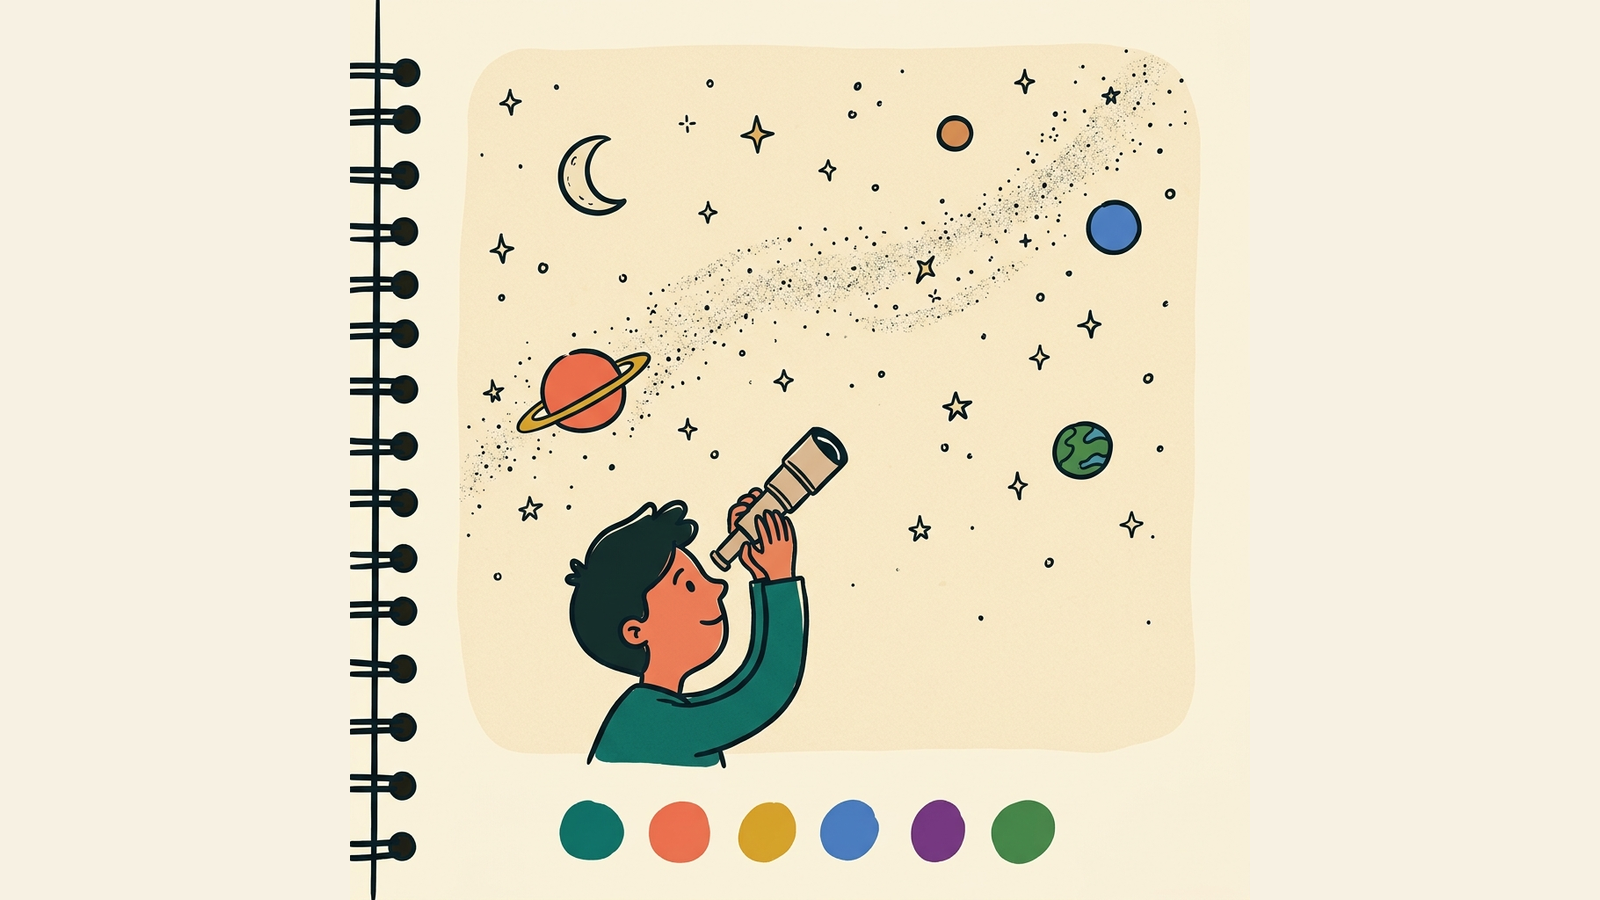
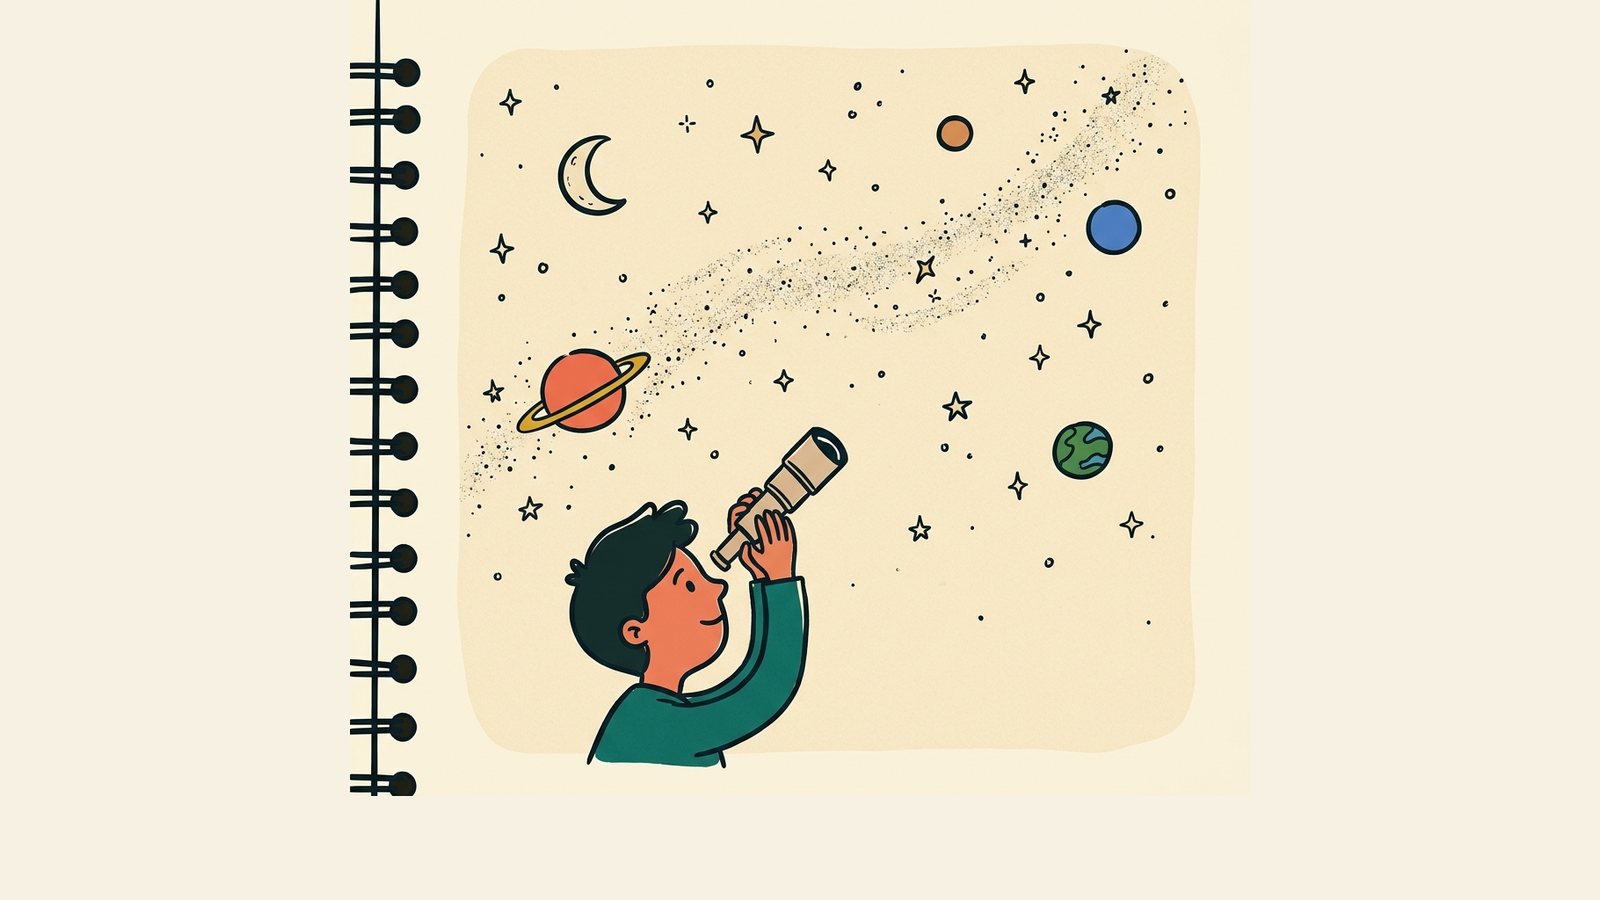
Wire topic images into pages; fix hero artifact
- kit.jsx: render CFG.heroImage as a framed hero banner on topic home
- Add hero + concept figures to observing-universe, cells-classification,
  solutions-mixtures
- observing-universe/img/hero.png: erase stray palette-swatch dots

Changed region(s): [[0.3438, 0.8711, 0.6562, 0.9644], [0.2188, 0.9022, 0.2812, 0.9956]]

diff --git a/observing-universe/content.jsx b/observing-universe/content.jsx
@@ -850,6 +850,7 @@ function Section3({ progress, setProgress }) {
         <p className="lead">Our place in the solar system explains almost everything we see in the sky.</p>
       </div>
 
+      <Figure src="img/earth-sun.png" caption="Earth orbits the Sun with its axis tilted — one half in daylight, the other in night." />
       <DotPoint id="1.3.1" title="Historical solar system models" progress={progress} setProgress={setProgress}>
         <p>For over 1,400 years, almost everyone believed Earth sat at the centre of the universe. This was the <Term def="The Earth-centred model of the solar system, developed by Ptolemy around 150 CE.">geocentric model</Term>, developed by the Greek philosopher Ptolemy. It matched everyday experience (the sky looks like it moves around a stationary Earth) and was supported by the Church. But it needed very complicated additions called <Term def="Small circular paths added to orbits in the geocentric model to explain why planets sometimes appear to move backwards in the sky.">epicycles</Term> to explain why planets occasionally appear to move backwards.</p>
         <p>In 1543, the Polish astronomer <Term def="The astronomer who proposed the first widely accepted Sun-centred model of the solar system in 1543.">Nicolaus Copernicus</Term> proposed the <Term def="The Sun-centred model of the solar system.">heliocentric model</Term>, placing the Sun at the centre. Galileo used a telescope in 1609 to find moons orbiting Jupiter (proving not everything circles Earth) and phases of Venus (only possible if Venus orbits the Sun). Johannes Kepler showed the orbits are ellipses, not circles. Isaac Newton then explained why: <Term def="The force of attraction between any two objects that have mass.">gravity</Term>.</p>
@@ -897,6 +898,7 @@ function Section4({ progress, setProgress }) {
         <p className="lead">Aboriginal and Torres Strait Islander peoples developed some of the world's oldest and most detailed astronomical knowledge systems.</p>
       </div>
 
+      <Figure src="img/sky-knowledge.png" caption="The Emu in the Sky — a dark-cloud constellation in the Milky Way, central to Aboriginal astronomy." />
       <DotPoint id="1.4.1" title="Moon phases and tides: two knowledge systems" progress={progress} setProgress={setProgress}>
         <p>Aboriginal and Torres Strait Islander peoples across Australia carefully observed the Moon's phases over tens of thousands of years and connected them to practical predictions about tides. The <Term def="An Aboriginal people of Arnhem Land, Northern Territory, with extensive astronomical and ecological knowledge.">Yolngu</Term> people of Arnhem Land describe the Moon filling with water as it waxes (grows) and emptying as it wanes (shrinks), producing a predictable tidal cycle. Coastal communities used this knowledge to plan fishing trips, shellfish gathering, and access to tidal rock platforms.</p>
         <p>Modern science explains the same patterns through the Moon's <Term def="The force of attraction between objects with mass. The Moon's gravity creates tidal bulges in Earth's oceans.">gravitational pull</Term> on Earth's oceans. The strongest tides (<Term def="The strongest tides, occurring at new Moon and full Moon when the Sun and Moon are aligned.">spring tides</Term>) occur at new Moon and full Moon. The weakest tides (<Term def="Relatively weak tides occurring at first and last quarter Moon when the Sun and Moon are at right angles.">neap tides</Term>) occur at quarter phases. Both knowledge systems reach the same practical result: the Moon's phase accurately predicts tidal strength.</p>
@@ -955,6 +957,7 @@ function Section5({ progress, setProgress }) {
         <p className="lead">The James Webb Space Telescope is the most powerful eye we have ever pointed at the cosmos. Find out what it can see and what it has already discovered.</p>
       </div>
 
+      <Figure src="img/jwst.png" caption="The James Webb Space Telescope and its golden hexagonal mirror." />
       <DotPoint id="1.5.1" title="The James Webb Space Telescope" progress={progress} setProgress={setProgress}>
         <p>The <Term def="The most powerful space telescope ever built, launched on 25 December 2021, observing primarily in infrared light.">James Webb Space Telescope (JWST)</Term> was launched on 25 December 2021. It is the result of decades of work by engineers and scientists from three space agencies: NASA (United States), ESA (European Space Agency), and CSA (Canadian Space Agency). Its mirror is 6.5 metres across, nearly three times the size of the <Term def="A space telescope launched in 1990 that observes in visible and ultraviolet light, orbiting 570 km above Earth.">Hubble Space Telescope's</Term> mirror. This gives it far greater <Term def="The ability of a telescope to collect light from faint objects. Larger mirrors gather more light.">light-gathering power</Term>.</p>
         <p>The JWST observes mainly in <Term def="Electromagnetic radiation with wavelengths longer than visible light but shorter than radio waves. Felt as heat.">infrared light</Term>. This lets it see through the dust clouds that block ordinary visible light, revealing hidden star-forming regions and very distant galaxies. It is parked at a special gravitational balance point called <Term def="The second Lagrange point, approximately 1.5 million km from Earth, where the telescope stays in sync with Earth's orbit while remaining on the night side.">Lagrange point L2</Term>, about 1.5 million kilometres from Earth. A five-layer sunshield the size of a tennis court keeps its instruments cold enough to detect the faint infrared glow of the most distant galaxies ever observed.</p>
@@ -989,6 +992,7 @@ function Section5({ progress, setProgress }) {
 mountTopicApp({
   year: 7,
   topicTitle: "Observing the Universe",
+  heroImage: "img/hero.png",
   strand: "Stage 4 · NSW Science",
   accent: "amber",
   storageKey: "y7.universe",

diff --git a/cells-classification/content.jsx b/cells-classification/content.jsx
@@ -781,6 +781,7 @@ function Section31({ progress, setProgress }) {
         <p className="lead">From microscopic bacteria to giant blue whales, scientists use a clever system to sort, name, and study every living thing on Earth.</p>
       </div>
 
+      <Figure src="img/classify.png" caption="Living things can be sorted into groups by the features they share." />
       <DotPoint id="3.1.1" title="Characteristics of living things" progress={progress} setProgress={setProgress}>
         <p>How do you know if something is alive? Scientists use a set of seven key characteristics. If something has all seven, it is living. The easiest way to remember them is the mnemonic <Term def="Movement, Reproduction, Sensitivity, Growth, Respiration, Excretion, Nutrition">MRSGREN</Term>.</p>
         <p>Think about a fire: it moves, it uses fuel, and it grows. But it cannot reproduce on its own, it has no sensitivity to changes around it, and it does not grow in the biological sense. Fire is not alive. A tricky case is a <Term def="A tiny particle of genetic material surrounded by a protein coat; can only reproduce inside a living host cell">virus</Term>: it can reproduce, but only by hijacking a living cell, and it has no <Term def="All of the chemical reactions that keep a cell alive, including releasing energy from food">metabolism</Term> of its own. Most scientists say viruses are not truly alive.</p>
@@ -878,6 +879,7 @@ function Section32({ progress, setProgress }) {
         <p className="lead">Every living thing, from a single bacterium to your own body, is built from cells. Explore what is inside them and how they work.</p>
       </div>
 
+      <Figure src="img/cell.png" caption="A plant cell and an animal cell compared." />
       <DotPoint id="3.2.1" title="Cell theory" progress={progress} setProgress={setProgress}>
         <p><Term def="The three foundational statements of biology: all living things are made of cells; the cell is the basic unit of life; all cells come from pre-existing cells">Cell theory</Term> is one of the most important ideas in all of biology. It has three parts: (1) all living things are made of one or more cells, (2) the cell is the basic structural and functional unit of life, and (3) all cells come from pre-existing cells. That third statement was a big deal because it overturned the old idea of <Term def="The mistaken idea that life could arise spontaneously from non-living matter">spontaneous generation</Term>, which claimed that maggots could appear from nothing in rotting meat.</p>
         <p>Cell theory was built up slowly over about 200 years as microscopes improved. In 1665, <Term def="English scientist who first described cells when examining cork under a microscope in 1665">Robert Hooke</Term> looked at cork under a microscope and called the tiny compartments he saw "cells". In the 1670s, <Term def="Dutch scientist who used improved microscopes to observe living single-celled organisms">Anton van Leeuwenhoek</Term> spotted living single-celled organisms in pond water for the first time. In 1838 and 1839, <Term def="Botanist who proposed in 1838 that all plants are made of cells">Matthias Schleiden</Term> and <Term def="Zoologist who proposed in 1839 that all animals are made of cells">Theodor Schwann</Term> independently concluded that all organisms are made of cells. Then in 1855, <Term def="Scientist who completed cell theory in 1855 by stating all cells come from pre-existing cells">Rudolf Virchow</Term> added the third statement.</p>
@@ -1007,6 +1009,7 @@ function Section33({ progress, setProgress }) {
         <p className="lead">Apply everything you have learned to a real organism. The platypus is one of the most extraordinary animals on Earth and a perfect case study.</p>
       </div>
 
+      <Figure src="img/aussie-organism.png" caption="The platypus — a uniquely Australian mammal." maxWidth="380px" />
       <DotPoint id="3.3.1" title="Researching an organism to connect cells and classification" progress={progress} setProgress={setProgress}>
         <p>A complete understanding of any organism means knowing its classification (kingdom to species), its cell type and organelles, and how it demonstrates all seven characteristics of living things. Choosing an Australian organism lets you also explore adaptations and Indigenous classification. The <Term def="An Australian egg-laying mammal (monotreme) with electroreceptors in its bill for detecting prey">platypus</Term> (<em>Ornithorhynchus anatinus</em>) is an ideal case study. When the first preserved specimen arrived in England in 1799, scientists thought it was a fake taxidermist creation. It was just too unusual to believe.</p>
         <p>The platypus is a <Term def="An egg-laying mammal; the only two Australian monotremes are the platypus and the echidna">monotreme</Term>, an egg-laying mammal. Despite laying eggs, it is clearly a mammal: it has fur, is warm-blooded, has three middle ear bones, and the female feeds her young on milk. Its cells are eukaryotic animal cells with a cell membrane, nucleus, mitochondria, and ribosomes, but no cell wall, no chloroplasts, and no large vacuole. The bill contains about 40,000 <Term def="Sensory cells that detect electric fields; the platypus uses them to find prey in murky water">electroreceptors</Term>, the most sensitive electric-field detection system known in any mammal.</p>
@@ -1030,6 +1033,7 @@ function Section33({ progress, setProgress }) {
 mountTopicApp({
   year: 7,
   topicTitle: "Cells and Classification",
+  heroImage: "img/hero.png",
   strand: "Stage 4 · NSW Science",
   accent: "emerald",
   storageKey: "y7.cellsclassification",

diff --git a/solutions-mixtures/content.jsx b/solutions-mixtures/content.jsx
@@ -680,6 +680,7 @@ function Section1({ progress, setProgress }) {
         <p className="lead">Everything around you is made of tiny particles. Whether something is solid, liquid or gas depends on how those particles are arranged and how much energy they have.</p>
       </div>
 
+      <Figure src="img/states.png" caption="The same substance as a solid, a liquid and a gas — particles packed, looser, then spread out." />
       <DotPoint id="4.1.1" title="The three states of matter" progress={progress} setProgress={setProgress}>
         <p>All matter is made of tiny particles. Depending on how those particles are arranged and how much energy they have, a substance can exist as a <Term def="A state of matter where particles are packed closely in a fixed arrangement and vibrate on the spot.">solid</Term>, a <Term def="A state of matter where particles are close together but can slide past each other, taking the shape of any container.">liquid</Term> or a <Term def="A state of matter where particles are far apart, moving rapidly in all directions, and spreading to fill any container.">gas</Term>. These are the three states of matter.</p>
         <p>Water is special because it naturally exists in all three states at temperatures common on Earth. Ice is found in glaciers and the polar ice caps. Liquid water covers more than 70 percent of Earth's surface in oceans, rivers and lakes. Water vapour is a gas in the atmosphere that forms clouds and drives the water cycle.</p>
@@ -818,6 +819,7 @@ function Section2({ progress, setProgress }) {
         <p className="lead">Water has some surprising properties that set it apart from most other substances. Understanding these helps explain everything from why ships float to why ice forms on top of ponds.</p>
       </div>
 
+      <Figure src="img/water.png" caption="Surface tension lets a water strider rest on top of the water." />
       <DotPoint id="4.2.1" title="Density, buoyancy and surface tension" progress={progress} setProgress={setProgress}>
         <p><Term def="The amount of mass packed into a given volume. Formula: density = mass divided by volume (rho = m/v). Units: g/mL or kg per cubic metre.">Density</Term> tells you how much mass is packed into a volume of space. Water has a density of about 1.00 g/mL. Interestingly, ice is less dense than liquid water (about 0.917 g/mL) because water molecules form a more open, hexagonal crystal pattern when they freeze. This is why ice floats on water, which is crucial for life in frozen lakes: the ice acts like a lid, keeping the liquid water underneath from freezing solid.</p>
         <p><Term def="The upward force exerted by a fluid on an object that is partially or fully submerged. An object floats when buoyant force equals its weight.">Buoyancy</Term> is the upward push a fluid gives an object. An object floats when it is less dense than the fluid. If it is denser, it sinks. <Term def="A property of liquid surfaces where surface molecules experience a net inward pull, creating a thin 'skin' that resists being broken.">Surface tension</Term> is a special property of water where the surface behaves like a thin elastic skin. This lets insects like water striders walk on water and helps water form round droplets.</p>
@@ -1018,6 +1020,7 @@ function Section4({ progress, setProgress }) {
         <p className="lead">Mixtures can be separated because each component keeps its own physical properties. Choosing the right technique depends on knowing those differences.</p>
       </div>
 
+      <Figure src="img/separating.png" caption="Filtration separates an insoluble solid from a liquid." />
       <DotPoint id="4.4.1" title="Atoms, compounds and mixtures" progress={progress} setProgress={setProgress}>
         <p>At the smallest level, all matter is made of <Term def="The smallest particle of an element that has the chemical properties of that element. Cannot be broken down further by ordinary chemical means.">atoms</Term>. When atoms of two or more different elements are chemically bonded together in fixed ratios, they form a <Term def="A pure substance made of two or more different elements chemically bonded in fixed ratios. Has new properties different from the original elements.">compound</Term>. Water (H2O) is a compound of hydrogen and oxygen. Importantly, the properties of a compound are completely different from those of its component elements: hydrogen burns, oxygen supports fire, but together they form water, which puts out fires!</p>
         <p>A <Term def="Two or more substances physically combined but NOT chemically bonded. Each substance keeps its own properties. No fixed ratio. Can be separated by physical means.">mixture</Term> is formed when two or more substances are physically combined without any chemical bonding. The key difference: in a compound, properties change and you need a chemical reaction to separate the elements; in a mixture, each component keeps its own properties and can be separated by physical methods like filtering or evaporation.</p>
@@ -1238,6 +1241,7 @@ function Section5({ progress, setProgress }) {
 mountTopicApp({
   year: 7,
   topicTitle: "Solutions and Mixtures",
+  heroImage: "img/hero.png",
   strand: "Stage 4 · NSW Science",
   accent: "cyan",
   storageKey: "y7.solutions",

diff --git a/shared/kit.jsx b/shared/kit.jsx
@@ -231,6 +231,10 @@ function buildApp(CFG) {
           <div className="eyebrow">Year {CFG.year} Science · {CFG.strand || "NSW Syllabus"}</div>
           <h1>{CFG.topicTitle}</h1>
           <p className="lead">{CFG.intro}</p>
+          {CFG.heroImage && (
+            <img src={CFG.heroImage} alt={CFG.topicTitle} loading="lazy"
+              style={{ width: "100%", display: "block", marginTop: 20, borderRadius: 14, border: "2px solid var(--border-strong)", boxShadow: "6px 6px 0 var(--border-strong)" }} />
+          )}
           <div className="row" style={{ marginTop: 22, alignItems: "center" }}>
             <button className="btn btn-accent" onClick={() => goTo(cont.id)}>{ctaLabel} <IconArrow size={16} sw={2.5}/></button>
             {CFG.hubHref && <a className="btn btn-ghost" href={CFG.hubHref}>← All Year {CFG.year} topics</a>}
